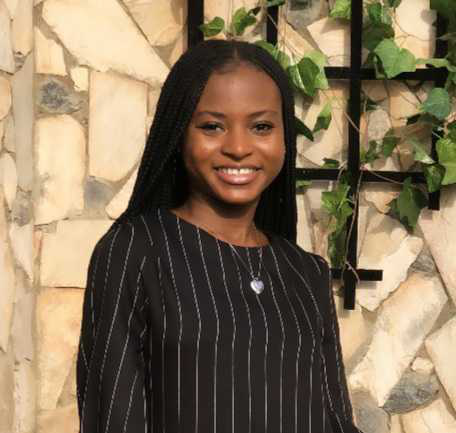
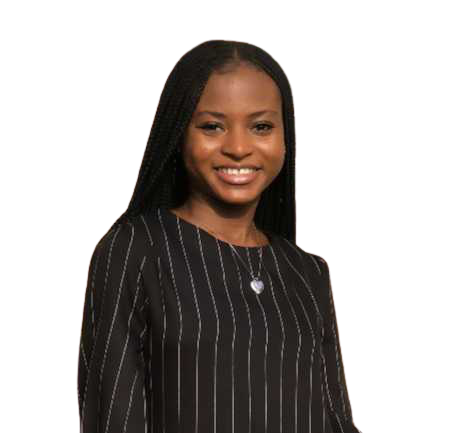
ui changes

diff --git a/src/index.css b/src/index.css
@@ -11,9 +11,9 @@
 }
 
 :root {
-  --color-bg: rgba(7, 26, 10, 0.497);
-  --color-bg-variant: rgb(13, 56, 19);
-  --color-primary: rgb(21, 149, 23);
+  --color-bg: rgb(0, 0, 0);
+  --color-bg-variant: rgb(44, 16, 68);
+  --color-primary: rgb(122, 46, 198);
   --color-primary-variant: rgb(165, 171, 141);
   --color-white: white;
   --color-light: rgb(213, 182, 182);
@@ -37,7 +37,7 @@ body{
   background-color: var(--color-bg);
   color: var(--color-white);
   line-height: 1.7;
-  background-image: url(/public/assets/greenBackground.jpeg);
+  background-image: url(/public/assets/blackbackground.avif);
 }
 
 /* ===GENERAL STYLE==== */
@@ -69,7 +69,7 @@ section > h2, section > h5 {
   color: var(--color-light);
 }
 
-section > hh2{
+section > h2{
   color: var(--color-primary);
   margin-bottom: 3rem;
 }

diff --git a/src/Components/Header/Header.css b/src/Components/Header/Header.css
@@ -43,16 +43,16 @@ header{
  /* ======= ME ======== */
 
  .me{
-    background: linear-gradient( var(--color-primary), transparent);
+    background: linear-gradient( rgb(73, 74, 74), transparent);
     width: 22rem;
-    height: 40rem;
+    height: 50rem;
     position: relative;
     left: calc(50% - 10rem);
     margin-top: 4rem;
     border-radius: 12rem 12rem 0 0;
     /* justify-content: center; */
     overflow: hidden;
-    /* padding: 0.05rem 0.5rem 0.5rem 0.5rem; */
+    padding: 0.005rem 3rem 0.5rem 3rem;
     
     
  }
@@ -87,4 +87,8 @@ header{
     .header__socials, .scroll__down{
         display: none;
     }
+    .me{
+        border-radius: 12rem 12rem 5rem 5rem;
+    }
+
 }    

diff --git a/src/Components/Header/Header.js b/src/Components/Header/Header.js
@@ -1,7 +1,7 @@
 import React from "react";
 import './Header.css';
 import CTA from '../CTA/CTA'
-import me from './me.jpg'
+import ME from "./ME.png"
 import Socials from "../Socials/Socials";
 
 const Header = () => {
@@ -15,7 +15,7 @@ const Header = () => {
                 <Socials/>
 
                 <div className="me">
-                    <img src={me} alt="me"/>
+                    <img src={ME} alt="me"/>
                 </div>
                 <a href="#contact" className="scroll__down">Scroll Down</a>
             </div>

diff --git a/src/Components/Navbar/Navbar.css b/src/Components/Navbar/Navbar.css
@@ -11,11 +11,11 @@ nav {
   border-radius: 3rem;
   display: flex;
   gap: 0.8rem;
-  backdrop-filter: blur(15px);
+  backdrop-filter:blur(15px);
 }
-::-webkit-backdrop-filter {
-  backdrop-filter: blur(15px);
-}
+/* ::-webkit-backdrop-filter {
+  backdrop-filter:blur(15px);
+} */
 
 nav a {
   background: transparent;

diff --git a/src/Components/About/About.css b/src/Components/About/About.css
@@ -3,6 +3,7 @@
     grid-template-columns: 35% 50%;
     gap: 15%;
     margin-bottom: 0;
+    margin-top: 30px;
 }
 
 .about__me {
